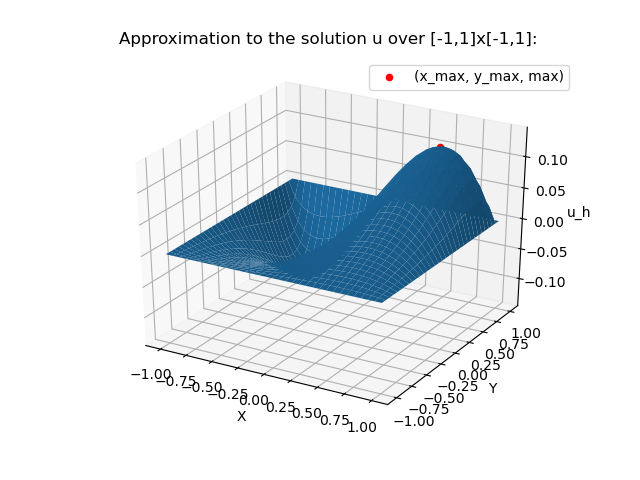
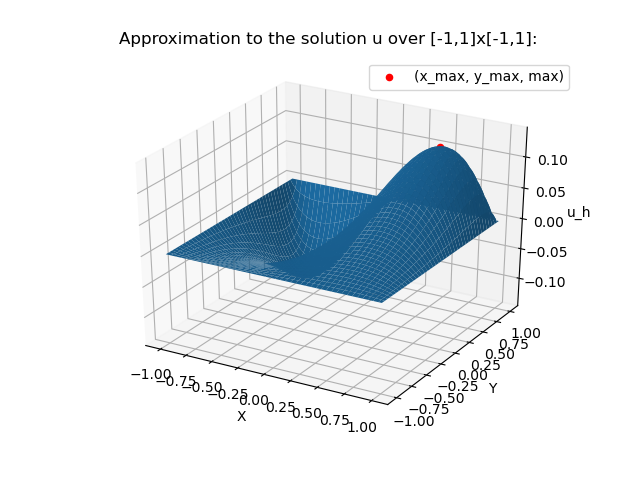
Commit plot of the maximum ed fixed

Changed region(s): [[0.2812, 0.375, 0.7812, 0.625], [0.8438, 0.375, 0.875, 0.4062]]

diff --git a/Investigation2d_Q5-7-8.py b/Investigation2d_Q5-7-8.py
@@ -160,7 +160,7 @@ Plot an approximation to the solution u over Closure(Omega) and provide an accur
 """
 def plot_solution_and_max():
     omega, kmax = 2/3, 10000 
-    n = 2**5
+    n = 2**8
     h = 2/n                                                     # amplitute of the intervals: as n increases, h decreases
     graphics = True                                             # boolean to show the plots
 
